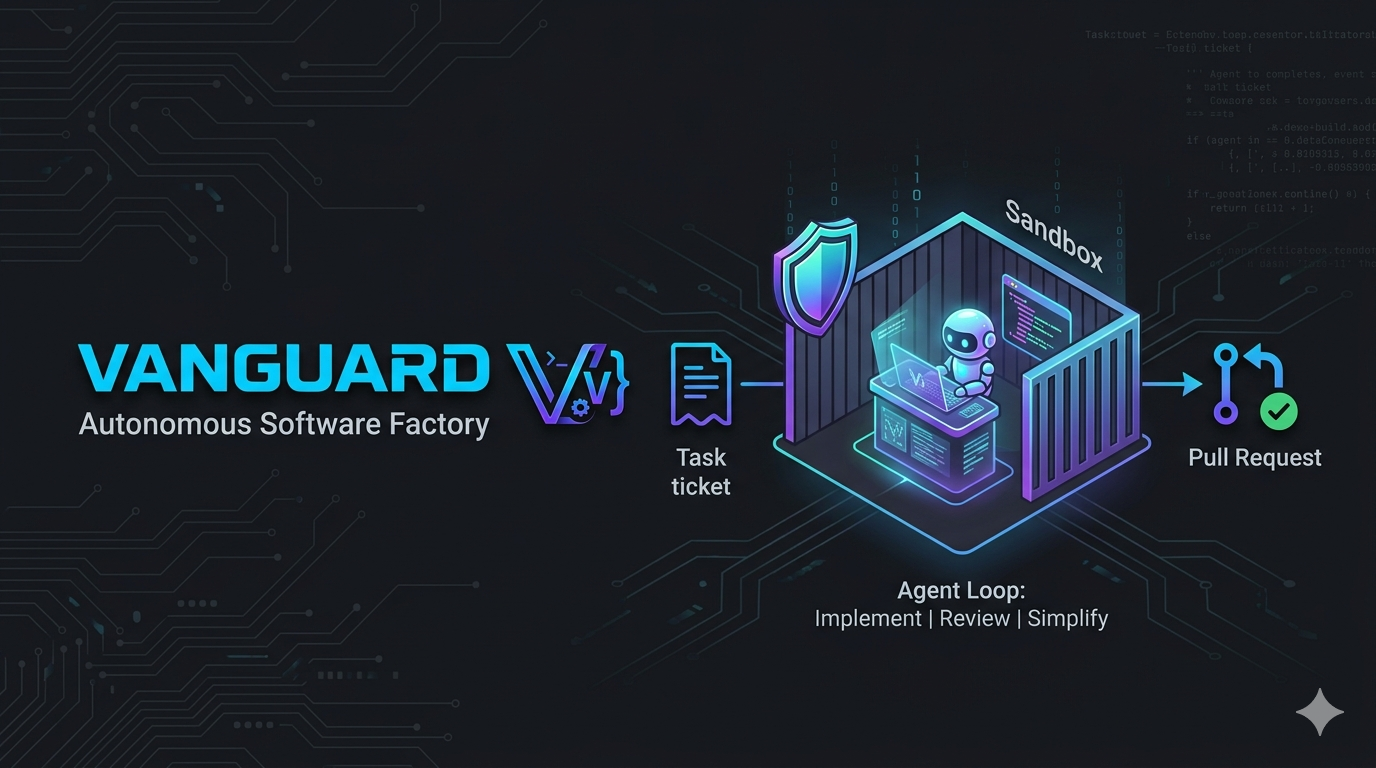
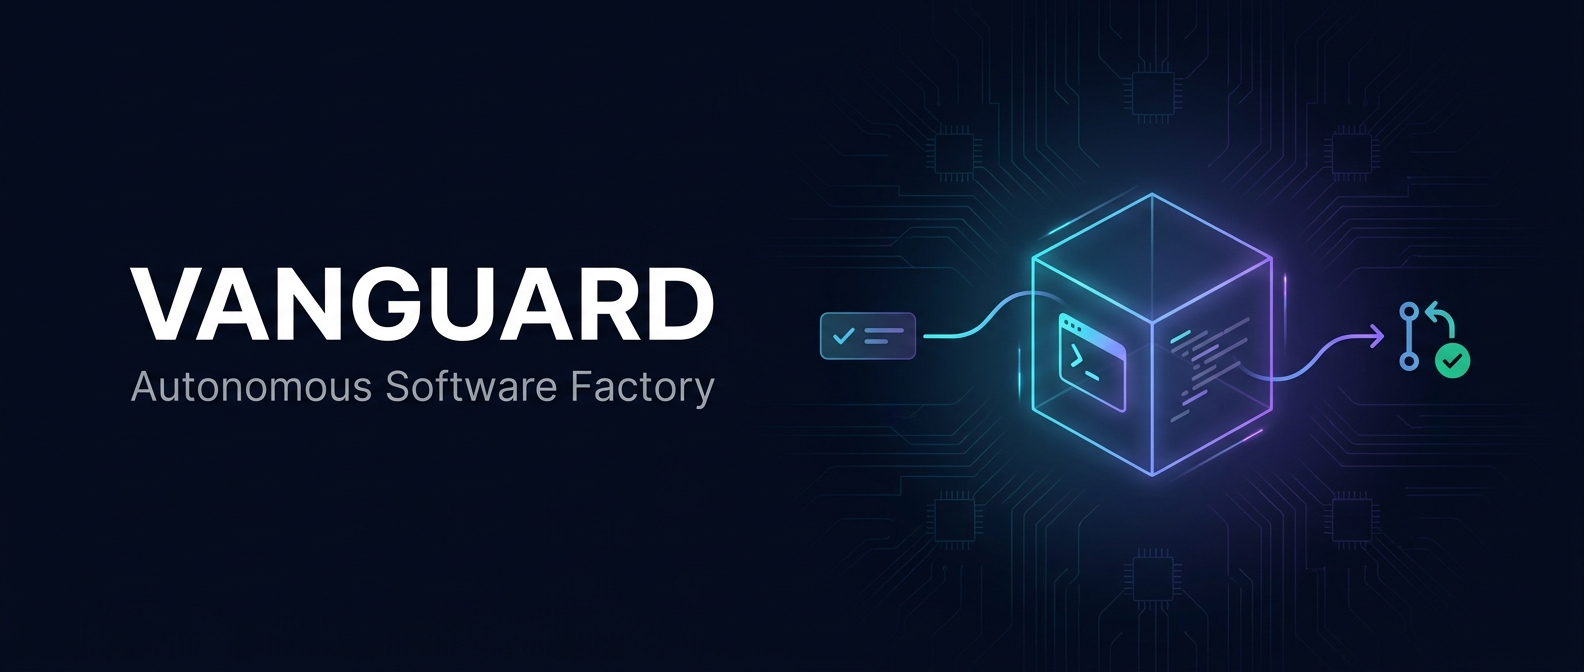
chore: refresh brand assets and README header

diff --git a/README.md b/README.md
@@ -1,21 +1,35 @@
 <p align="center">
-  <img src="assets/banner.png" alt="Vanguard - Autonomous Software Factory" width="820" />
+  <img src="assets/banner.png" alt="Vanguard — Autonomous Software Factory" width="820" />
 </p>
 
 <p align="center">
-  <a href="https://github.com/SebaBoler/vanguard/actions/workflows/ci.yml"><img src="https://github.com/SebaBoler/vanguard/actions/workflows/ci.yml/badge.svg" alt="CI" /></a>
-  <img src="https://img.shields.io/badge/node-%3E%3D24-3c873a" alt="Node >=24" />
-  <img src="https://img.shields.io/badge/TypeScript-strict-3178c6" alt="TypeScript strict" />
-  <img src="https://img.shields.io/badge/license-MIT-blue" alt="MIT" />
+  <b>Autonomous software factory</b> — fetches tasks from GitHub, GitLab, or Linear,<br/>
+  implements them with an AI agent pipeline in an isolated sandbox, and opens draft PRs/MRs for human review.
 </p>
 
 <p align="center">
-  A self-improving software factory: take a task (Linear / GitHub), run a Claude Code agent in an
-  isolated Docker sandbox on its own <code>git worktree</code>, and get back a reviewed, verifiable
-  pull request. When the agent fails, you fix the <em>harness</em> — the prompt, the skill, the tool,
-  the limit — not the agent's output, so the same failure can't happen twice. A standalone TypeScript
-  framework, not a wrapper around another tool.
+  <a href="https://github.com/SebaBoler/vanguard/actions/workflows/ci.yml"><img src="https://github.com/SebaBoler/vanguard/actions/workflows/ci.yml/badge.svg" alt="CI"></a>
+  <a href="LICENSE"><img src="https://img.shields.io/badge/license-MIT-8B5CF6.svg" alt="License: MIT"></a>
+  <img src="https://img.shields.io/badge/node-%E2%89%A5%2024-22D3EE" alt="Node >= 24">
+  <img src="https://img.shields.io/badge/TypeScript-strict-3178C6" alt="TypeScript">
+  <img src="https://img.shields.io/badge/built%20with-Claude%20Agent%20SDK-D97757" alt="Claude Agent SDK">
+  <img src="https://img.shields.io/badge/sandboxed-Docker-2496ED" alt="Docker sandbox">
 </p>
+
+<p align="center">
+  <code>Task ticket&nbsp;&nbsp;→&nbsp;&nbsp;Agent pipeline (plan · implement · review · repair)&nbsp;&nbsp;→&nbsp;&nbsp;Draft PR</code>
+</p>
+
+## What is Vanguard?
+
+Vanguard turns work items into reviewed code changes — autonomously:
+
+1. **Fetch** — pulls a Task from a pluggable Task Source: GitHub Issues, GitLab Issues, or Linear.
+2. **Run** — an AI agent pipeline (planner → implementer → reviewer → adversary → repairer) implements it inside an isolated Docker sandbox.
+3. **Verify** — a Proof-of-Work command runs after the agent finishes; failures flag the PR/MR instead of silently passing.
+4. **Deliver** — opens a **draft PR/MR**. Humans review and merge; Vanguard does the toil.
+
+Run it once per ticket — or let the **Watch Loop** autonomously list ready Tasks, claim them, and process them end to end.
 
 Status: Phase 1 (core engine), Phase 2 (task sources, pipeline, evals), and Phase 3 (adversarial review, human-in-the-loop, budget guardrails, dynamic MCP skills) are implemented and tested. Runs autonomously (AFK) as a `watch` loop; deployed always-on on Docker (Synology / Hetzner / any host).
 